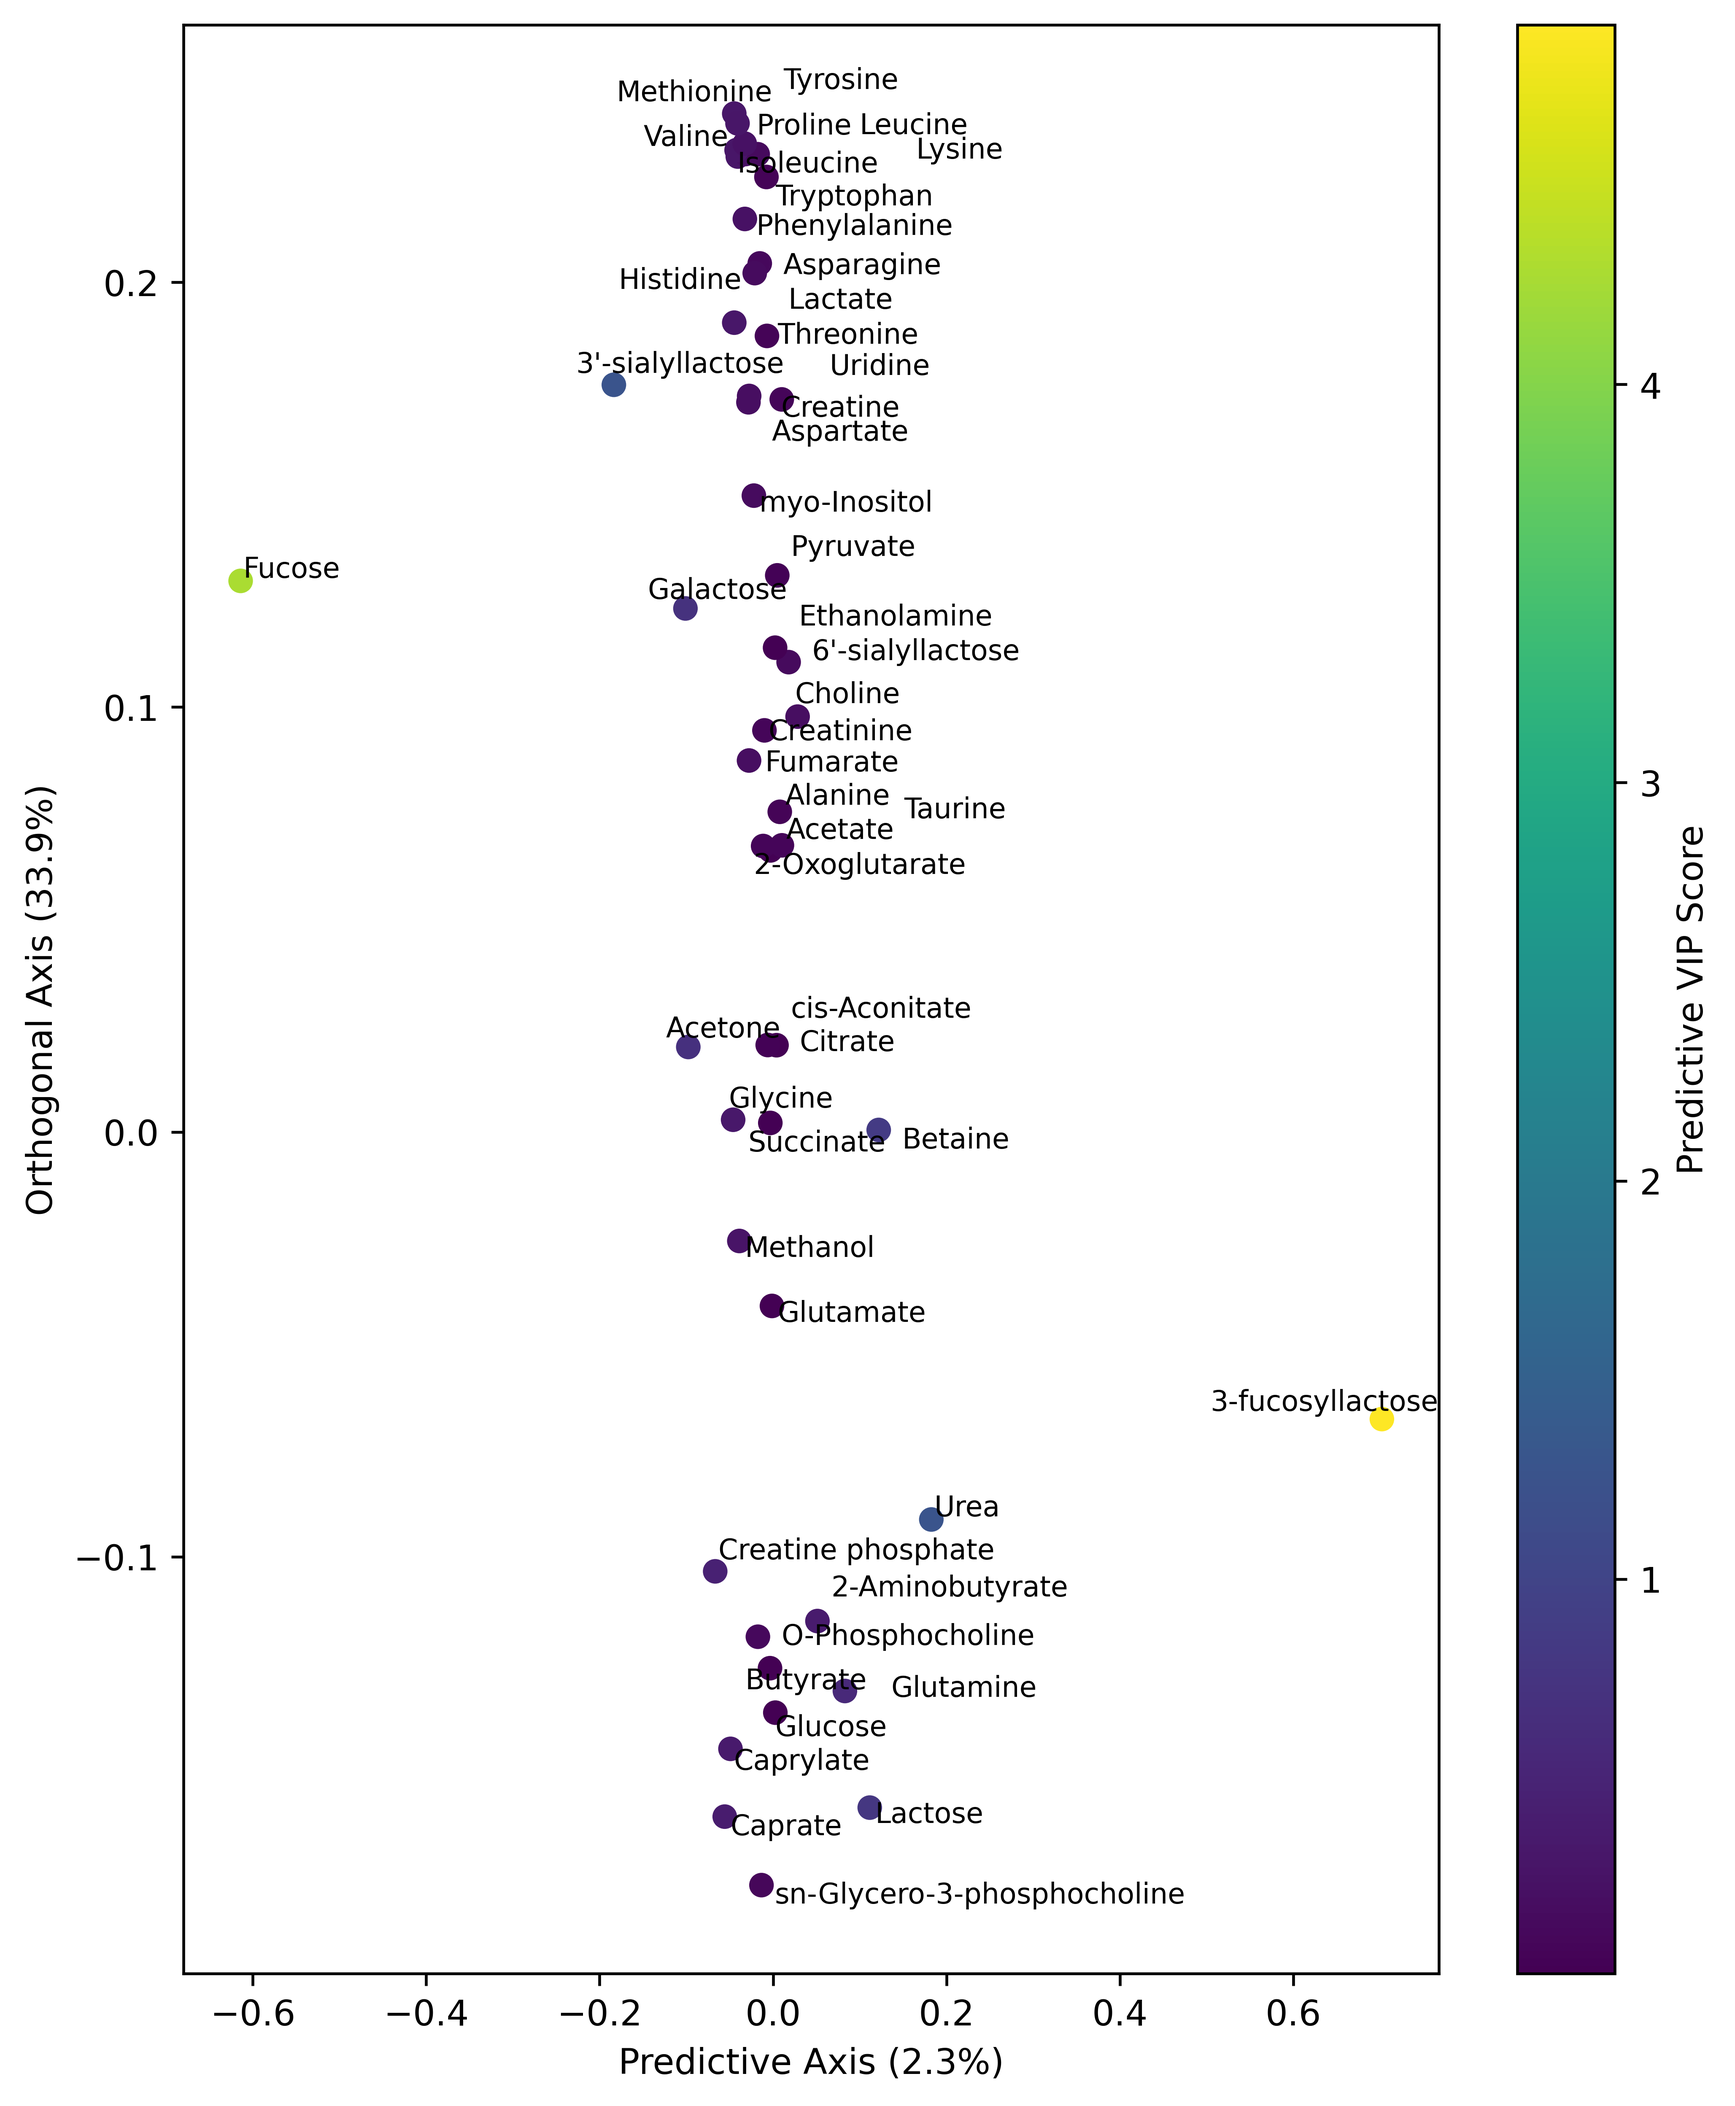
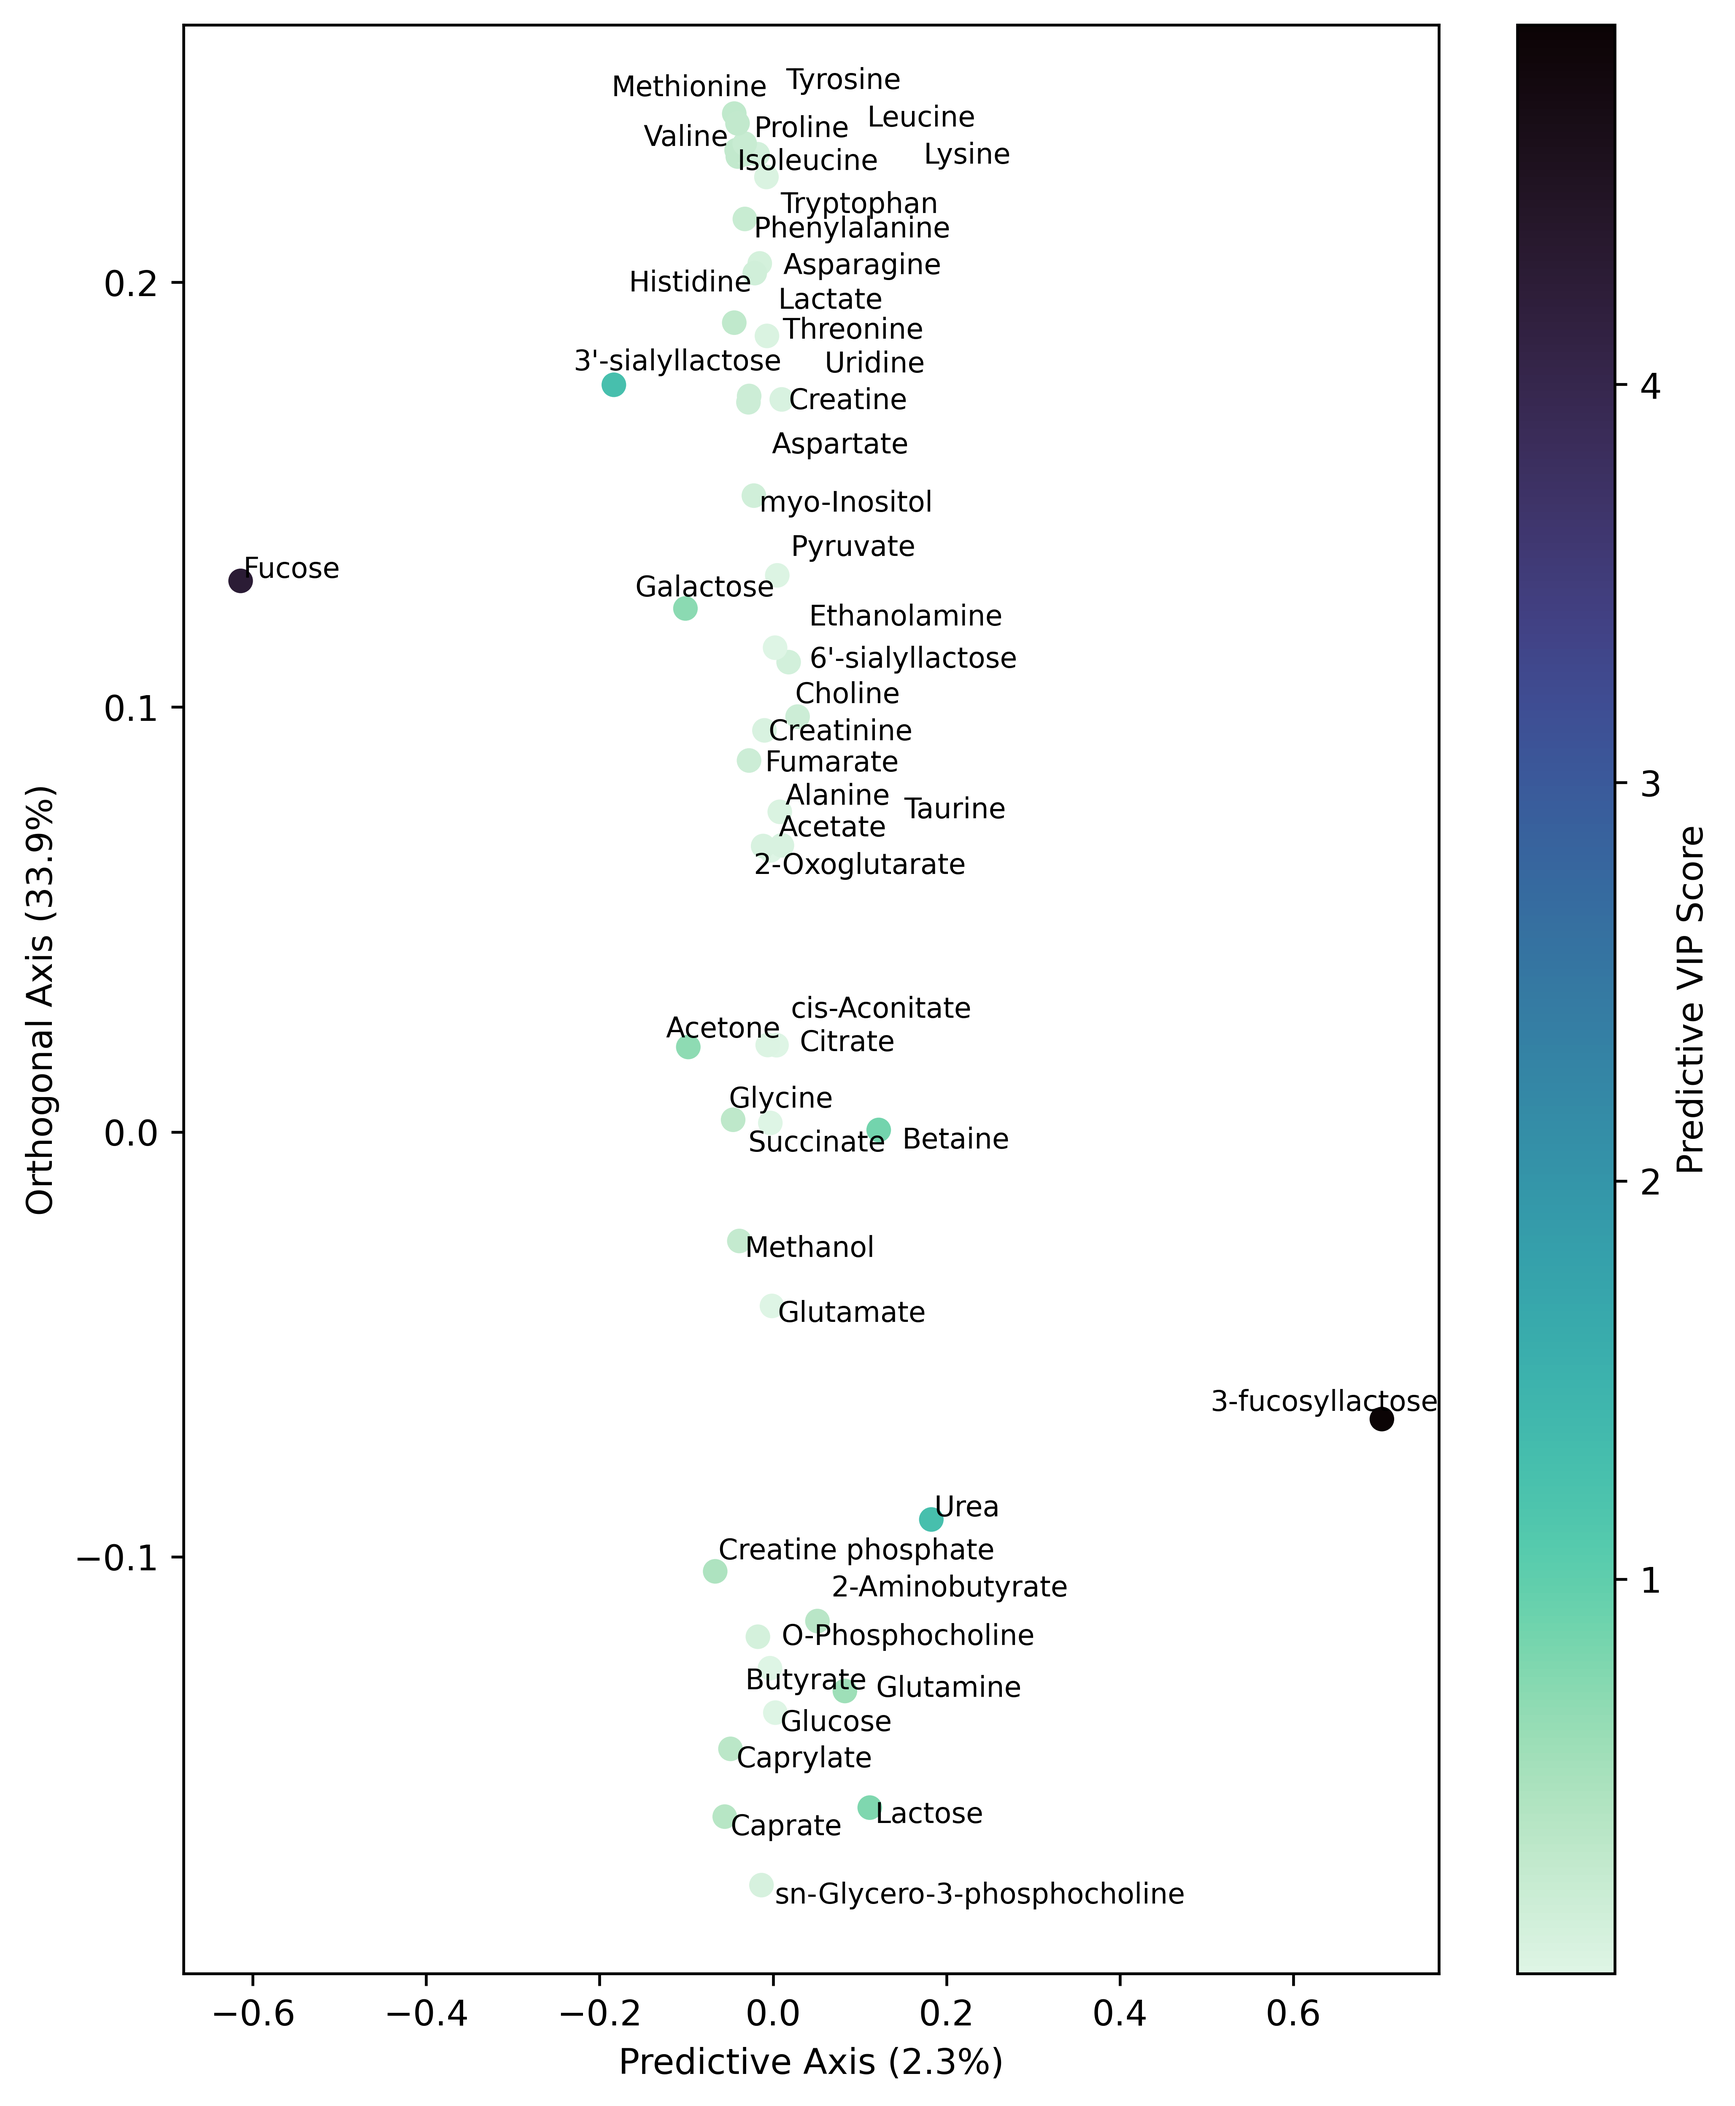
過去作修正

diff --git a/Figures/py/image1/bmPCAimage1.py b/Figures/py/image1/bmPCAimage1.py
@@ -103,8 +103,9 @@ gs = fig.add_gridspec(
   wspace=0.25,
   hspace=0.25,
 )
-for group in itertools.combinations([-3, -2, -1], 2):
-  # print(group)
+groups = list(itertools.combinations([-3, -2, -1], 2))
+for i in range(len(groups)):
+  group = groups[i]
   
   ax = fig.add_subplot(gs[(group[0]+len(replace_dict)), (group[1]+len(replace_dict))])
   # ax.scatter(
@@ -116,9 +117,9 @@ for group in itertools.combinations([-3, -2, -1], 2):
   sns.scatterplot(
     x=loading_df[:, group[1]].astype(float),
     y=loading_df[:, group[0]].astype(float),
-    s=40,
+    s=30,
     marker='o',
-    color='green',
+    color='gray',
     ax=ax
   )
   ax.set_xlabel(replace_dict[group[1]])
@@ -127,12 +128,12 @@ for group in itertools.combinations([-3, -2, -1], 2):
   # ax.set_xlabel("")
 
   texts = []
-  for i in range(len(loading_df)):
+  for j in range(len(loading_df)):
     texts.append(
       ax.text(
-        loading_df[i, group[1]].astype(float),
-        loading_df[i, group[0]].astype(float),
-        loading_df[i, 0],
+        loading_df[j, group[1]].astype(float),
+        loading_df[j, group[0]].astype(float),
+        loading_df[j, 0],
         size=8
       )
     )
@@ -143,18 +144,19 @@ for group in itertools.combinations([-3, -2, -1], 2):
     x=score_df[:, group[0]].astype(float),
     y=score_df[:, group[1]].astype(float),
     hue=score_c,
-    s=30,
-    alpha=0.6,
-    palette="jet_r",
+    s=20,
+    alpha=0.7,
+    palette="mako",
     ax=ax
   )
-  ax.legend_.remove()
   ax.set_xlabel(replace_dict[group[0]])
   ax.set_ylabel(replace_dict[group[1]])
   # ax.set_xlabel("")
   # ax.set_ylabel("")
+  if i!=0:
+    ax.legend_.remove()
 
-for i in range(len(replace_dict)):
+# for i in range(len(replace_dict)):
   ax = fig.add_subplot(gs[i, i])
   ax.text(
     0.5, 0.5, 

diff --git a/Figures/py/image2/bmPCAimage2.py b/Figures/py/image2/bmPCAimage2.py
@@ -46,7 +46,7 @@ sc = ax.scatter(
   x=loading_df[:, 1].astype(float),
   y=loading_df[:, 2].astype(float),
   c=loading_df[:, 3].astype(float),
-  cmap="viridis",
+  cmap="mako_r",
   marker='o',
 )
 ax.set_xlabel(replace_dict[1])
